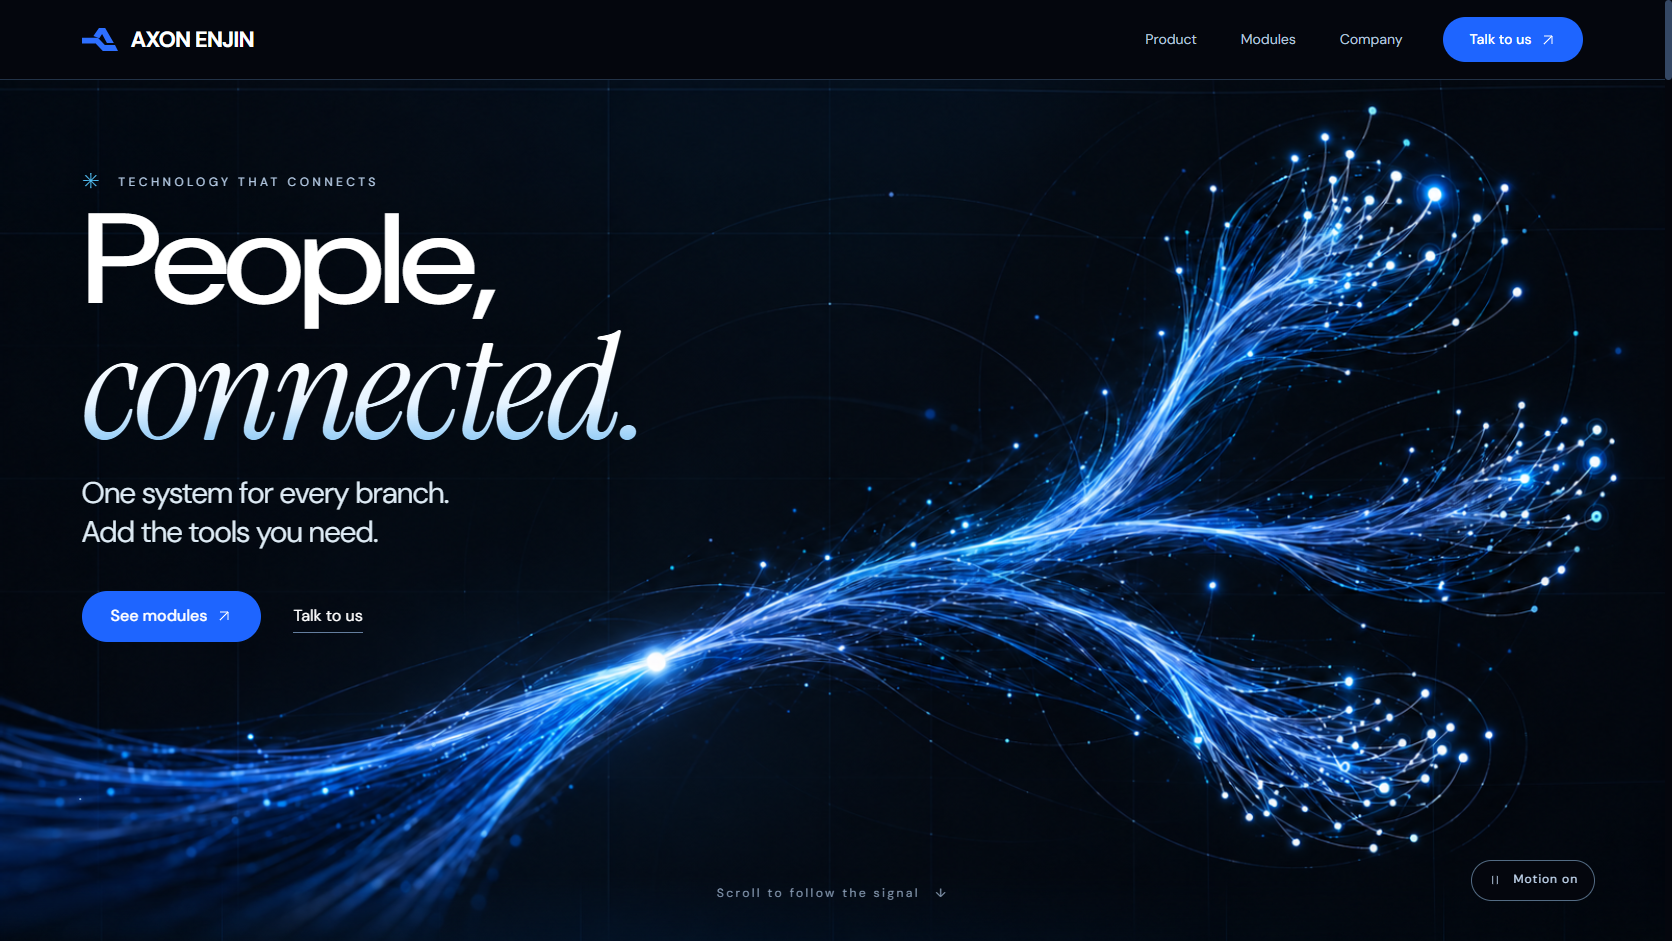
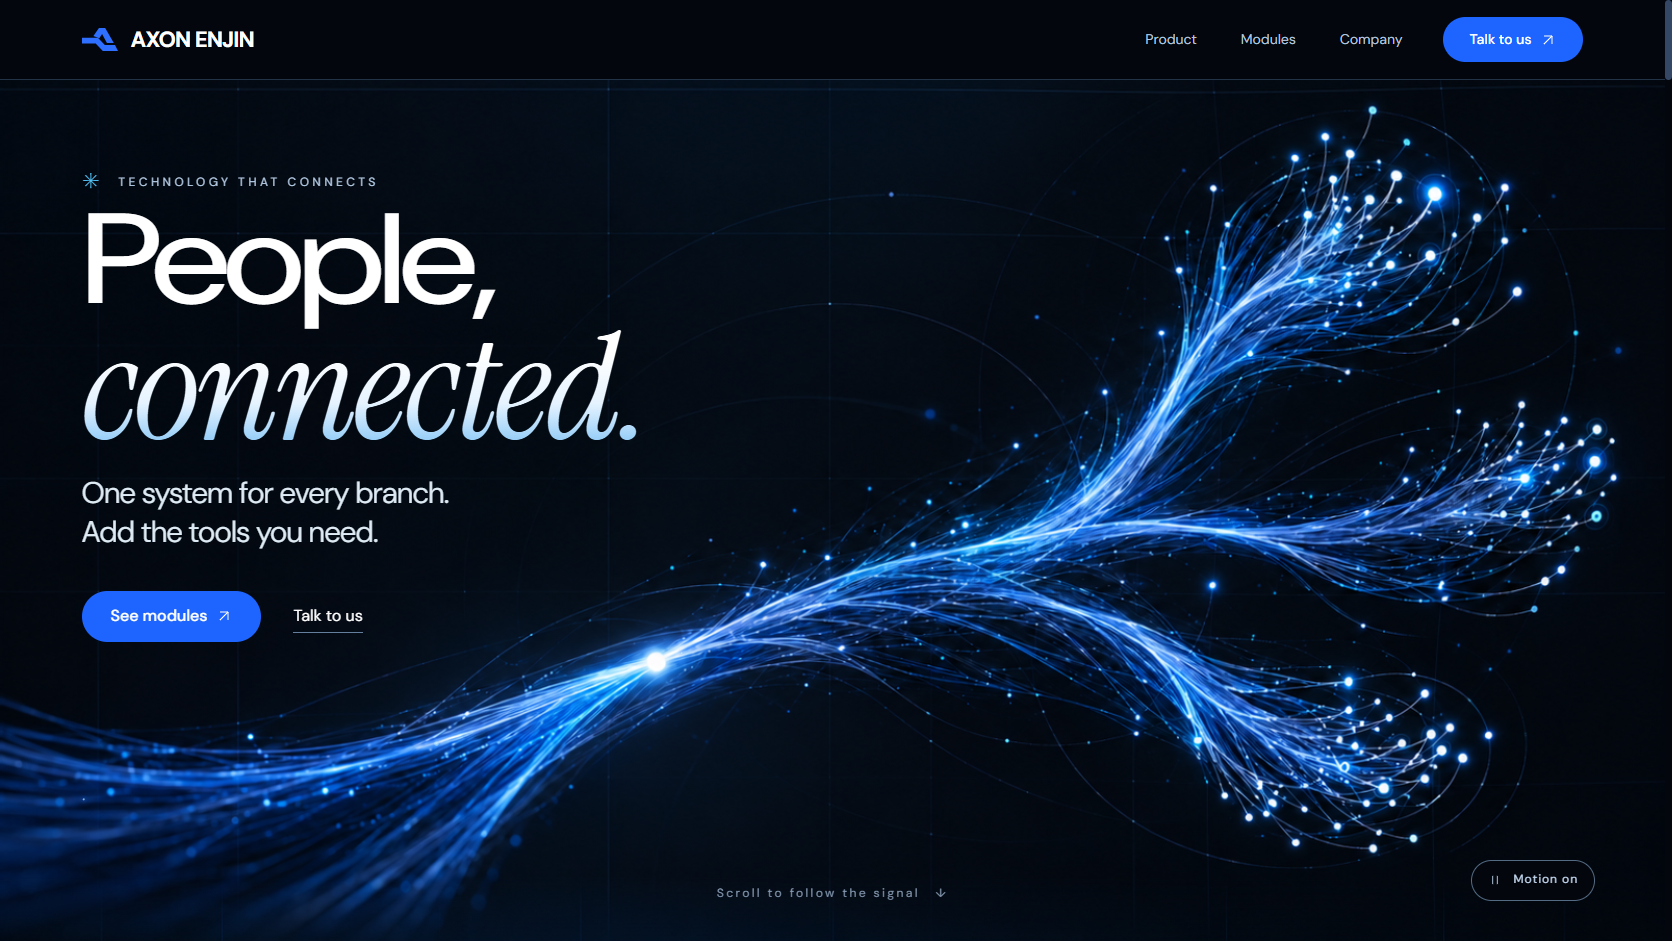
fix: harden hero startup and motion review artifacts

Changed region(s): [[0.7464, 0.2465, 0.8708, 0.4006], [0.7153, 0.7705, 0.8397, 0.8629]]

diff --git a/docs/design-concepts/living-network/hero-motion/index.html b/docs/design-concepts/living-network/hero-motion/index.html
@@ -7,5 +7,5 @@
 @font-face{font-family:'DM Sans';src:url('/assets/fonts/dm-sans.ttf') format('truetype')}
 body{margin:0;background:#04060d;color:#cfe3ff;font:16px/1.6 'DM Sans',sans-serif}main{max-width:1440px;margin:auto;padding:32px 24px}h1{font-size:28px;margin:0 0 8px;color:#fff}p{background:#04060d;color:#bed1e8}a{background:#04060d;color:#9ddcff}video{display:block;width:100%;height:auto;margin-top:24px}
 </style>
-<main><h1>Moving nerve branches</h1><p>Recorded from the actual animated hero canvas. <a href="/#home">Open the full live preview</a>.</p><video src="nerve-motion.webm" poster="desktop-moving.png" controls autoplay muted loop playsinline></video></main>
+<main><h1>Moving nerve branches</h1><p>Interactive preview of the actual hero. <a href="/#home" target="_top">Open the full live page</a>.</p><iframe src="/#home" title="Live animated Axon Enjin hero" style="display:block;width:100%;height:850px;border:1px solid #223247" loading="lazy"></iframe><p><a href="desktop-start.png">Desktop frame 1</a> · <a href="desktop-moving.png">Desktop frame 2</a> · <a href="mobile.png">Mobile capture</a></p></main>
 </html>

diff --git a/src/runtime/hero-intro.js b/src/runtime/hero-intro.js
@@ -114,7 +114,11 @@ export const createAxonIntro = ({
       finish();
       return;
     }
-    if (!artwork.complete || !artwork.naturalWidth) return;
+    if (!artwork.complete) return;
+    if (!artwork.naturalWidth) {
+      finish();
+      return;
+    }
     // Sample the actual image's cover crop so the mobile mask resolves in place.
     let viewBox = "0 0 1672 941";
     if (mobile) {

diff --git a/DESIGN.md b/DESIGN.md
@@ -24,7 +24,7 @@ Use the angular cobalt A/junction mark reconstructed as a crisp two-path SVG, wi
 
 ## Interaction and accessibility
 
-The hero's three nerve clusters now sway independently through `src/runtime/hero-motion.js`. A small WebGL shader deforms the selected raster around a steadier trunk with stronger motion toward the tips. Its offscreen GPU surface is copied into the existing hero canvas by the shared scheduler; it adds no RAF loop or external library. Upload the image once, cap render width at 1600px (850px on mobile/low-power), and dispose GPU resources on cleanup. Motion off and reduced motion show the original image without starting GPU rendering. Offscreen/hidden scenes sleep, and unavailable/lost WebGL falls back to the static artwork. `tools/hero-motion-check.mjs` checks actual branch-pixel deformation, stable text, mobile cropping, pause, offscreen sleep, reduced motion and unavailable GPU. Its captures and a recorded motion clip are in `docs/design-concepts/living-network/hero-motion/`.
+The hero's three nerve clusters now sway independently through `src/runtime/hero-motion.js`. A small WebGL shader deforms the selected raster around a steadier trunk with stronger motion toward the tips. Its offscreen GPU surface is copied into the existing hero canvas by the shared scheduler; it adds no RAF loop or external library. Upload the image once, cap render width at 1600px (850px on mobile/low-power), and dispose GPU resources on cleanup. Motion off and reduced motion show the original image without starting GPU rendering. Offscreen/hidden scenes sleep, and unavailable/lost WebGL falls back to the static artwork. `tools/hero-motion-check.mjs` checks actual branch-pixel deformation, stable text, mobile cropping, pause, offscreen sleep, reduced motion and unavailable GPU. Its captures and an interactive preview are in `docs/design-concepts/living-network/hero-motion/`.
 
 The contact section uses the approved `08-contact.png` composition with live fields and the selected geometric identity. Its artwork-only `assets/contact-network.png` is extracted from that reference without labels, forms, or footer UI. `assets/contact.css` owns the layout. The shared canvas engine caches the upper artwork at display resolution and deforms 48 strips with continuous edge interpolation around a stationary convergence point; mobile/low-power rendering uses 24 strips and six light pulses instead of twelve. Two travelling wave frequencies flex the bundle, staggered signal trails run toward a softly breathing convergence point, and an impulse continues along the outgoing line. No GIF, added animation library, independent scheduler, or per-frame path construction is used. Offscreen/hidden canvases sleep, and Motion off/reduced motion shows static artwork. Form delivery remains local preparation only. `tools/contact-check.mjs` verifies animation, pause, visibility, responsive widths and honest form behavior; captures are in `docs/design-concepts/living-network/contact-rework/`.
 Main content visible without JavaScript. One shared requestAnimationFrame; pause outside viewport and when document hidden. Motion toggle uses `.motion-paused` and persists preference. Reduced-motion readers see final states; controls and native scroll remain usable. All tabs work with click and keyboard, focus is visible, dialogue focus returns to its opener. Mobile removes long sticky sequences and uses direct layouts.
